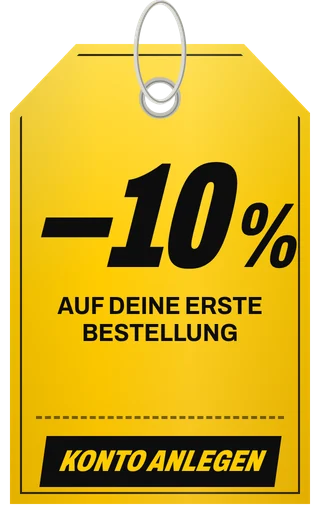
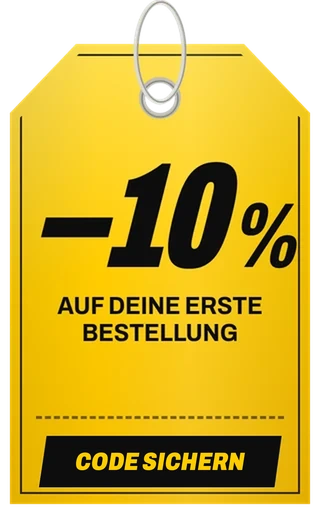
Hero: Schnur rechts der Überschrift (keine Überdeckung auf breiten Bildschirmen); Preisschild und 10-%-Button öffnen das Code-Pop-up; Preisschild „Code sichern“
Claude-Session: https://claude.ai/code/session_0177A1frqWXJL77s92fKAdYQ

Changed region(s): [[0.125, 0.8308, 0.8438, 0.9538], [0.4688, 0.6154, 0.5, 0.6462], [0.2812, 0.6154, 0.3125, 0.6462]]

diff --git a/assets/theme.js b/assets/theme.js
@@ -68,7 +68,8 @@
 
   document.addEventListener('click', (e) => {
     const opener = e.target.closest('[data-drawer-open]');
-    if (opener) {
+    // A link keeps its own target when its drawer is not on the page (e.g. the welcome pop-up is switched off).
+    if (opener && $(`[data-drawer="${opener.dataset.drawerOpen}"]`)) {
       e.preventDefault();
       openDrawer(opener.dataset.drawerOpen, opener);
       return;
@@ -347,6 +348,42 @@
       }, 480);
     };
 
+    // Desktop: the line hangs to the right of the widest headline. The headline scales with the
+    // screen height and sits in the centred page column, so a fixed percentage put the lure over
+    // the words on wide 16:9 screens. If there is no room right of the words, the headline shrinks.
+    const wide = window.matchMedia('(min-width: 990px)');
+    const placeLine = () => {
+      if (!lineArt) return;
+      hero.style.removeProperty('--title-fit');
+      lineArt.style.removeProperty('left');
+      if (!wide.matches) return;
+      const box = hero.getBoundingClientRect();
+      const edge = (els) => els.reduce((max, el) => Math.max(max, el.getBoundingClientRect().right), 0);
+      const words = $$('.hero__line-inner > span', hero);
+      const titleLeft = words.length ? Math.min(...words.map((el) => el.getBoundingClientRect().left)) : 0;
+      const right = Math.max(edge(words), edge($$('.hero__text', hero))) - box.left;
+      const half = lures.reduce((max, l) => {
+        // Layout width, not the rotated box. A hanging lure swings up to ~35° sideways when it bites.
+        const w = ($('img', l) || l).offsetWidth;
+        return Math.max(max, l.classList.contains('hero__lure--top') ? w / 2 : w * 0.45);
+      }, 0);
+      const gap = 40;
+      const cap = box.width - half - 72; // keep clear of the scroll cue on the right
+      const need = right + half + gap;
+      const preset = (parseFloat(lineArt.style.getPropertyValue('--line-x')) || 52) / 100 * box.width;
+      if (need <= cap) { lineArt.style.left = `${Math.max(preset, need)}px`; return; }
+      const room = cap - half - gap - (titleLeft - box.left);
+      const used = right - (titleLeft - box.left);
+      hero.style.setProperty('--title-fit', Math.max(0.6, room / used).toFixed(3));
+      lineArt.style.left = `${cap}px`;
+    };
+    let placeFrame;
+    const queuePlace = () => { cancelAnimationFrame(placeFrame); placeFrame = requestAnimationFrame(placeLine); };
+    window.addEventListener('resize', queuePlace);
+    if (document.fonts && document.fonts.ready) document.fonts.ready.then(queuePlace);
+    $$('img', lineArt || hero).forEach((img) => { if (!img.complete) img.addEventListener('load', queuePlace, { once: true }); });
+    placeLine();
+
     const go = (index, { focusTab = false } = {}) => {
       if (!slides.length) return;
       const n = (index + slides.length) % slides.length;
@@ -479,7 +516,11 @@
     let seen = 0;
     try { seen = parseInt(localStorage.getItem(KEY), 10) || 0; } catch (_) { /* storage blocked */ }
     const remember = (ms = Date.now()) => { try { localStorage.setItem(KEY, String(ms)); } catch (_) { /* storage blocked */ } };
+    const shownRecently = () => {
+      try { return Date.now() - (parseInt(localStorage.getItem(KEY), 10) || 0) <= days * 864e5; } catch (_) { return false; }
+    };
     const show = () => {
+      if (shownRecently()) return; // opened from the price tag in the meantime
       // Never interrupt an open menu, cart or picker; try again shortly.
       if (activeDrawer) { setTimeout(show, 4000); return; }
       openDrawer('welcome', document.activeElement);
@@ -500,6 +541,9 @@
         setTimeout(() => { if (!done && !(window.Shopify.customerPrivacy)) go(); }, 4000);
       } else check();
     };
+
+    // Opened on purpose (price tag, hero button): don't pop it up again by itself later.
+    document.addEventListener('click', (e) => { if (e.target.closest('[data-drawer-open="welcome"]')) remember(); });
 
     const state = $('[data-welcome-state]', welcome);
     if (state) {

diff --git a/assets/base.css b/assets/base.css
@@ -421,8 +421,8 @@ input, textarea { caret-color: var(--ink); }
 /* The copy spans the full width: let pointers through to the line, keep links and buttons live */
 .hero__inner { pointer-events: none; }
 .hero__inner a, .hero__inner button { pointer-events: auto; }
-.hero__title { font-size: clamp(3.75rem, min(16.5vw, 13svh), 13.5rem); max-width: 11ch; }
-.hero--slider .hero__title { font-size: clamp(3.25rem, min(14vw, 11.5svh), 11.5rem); max-width: none; }
+.hero__title { font-size: calc(clamp(3.75rem, min(16.5vw, 13svh), 13.5rem) * var(--title-fit, 1)); max-width: 11ch; }
+.hero--slider .hero__title { font-size: calc(clamp(3.25rem, min(14vw, 11.5svh), 11.5rem) * var(--title-fit, 1)); max-width: none; }
 .hero__line { display: block; overflow: hidden; padding-block: 0.14em 0.06em; margin-block: -0.14em -0.06em; }
 .hero__line-inner { display: block; }
 .hero__line-inner > span { display: inline-block; }
